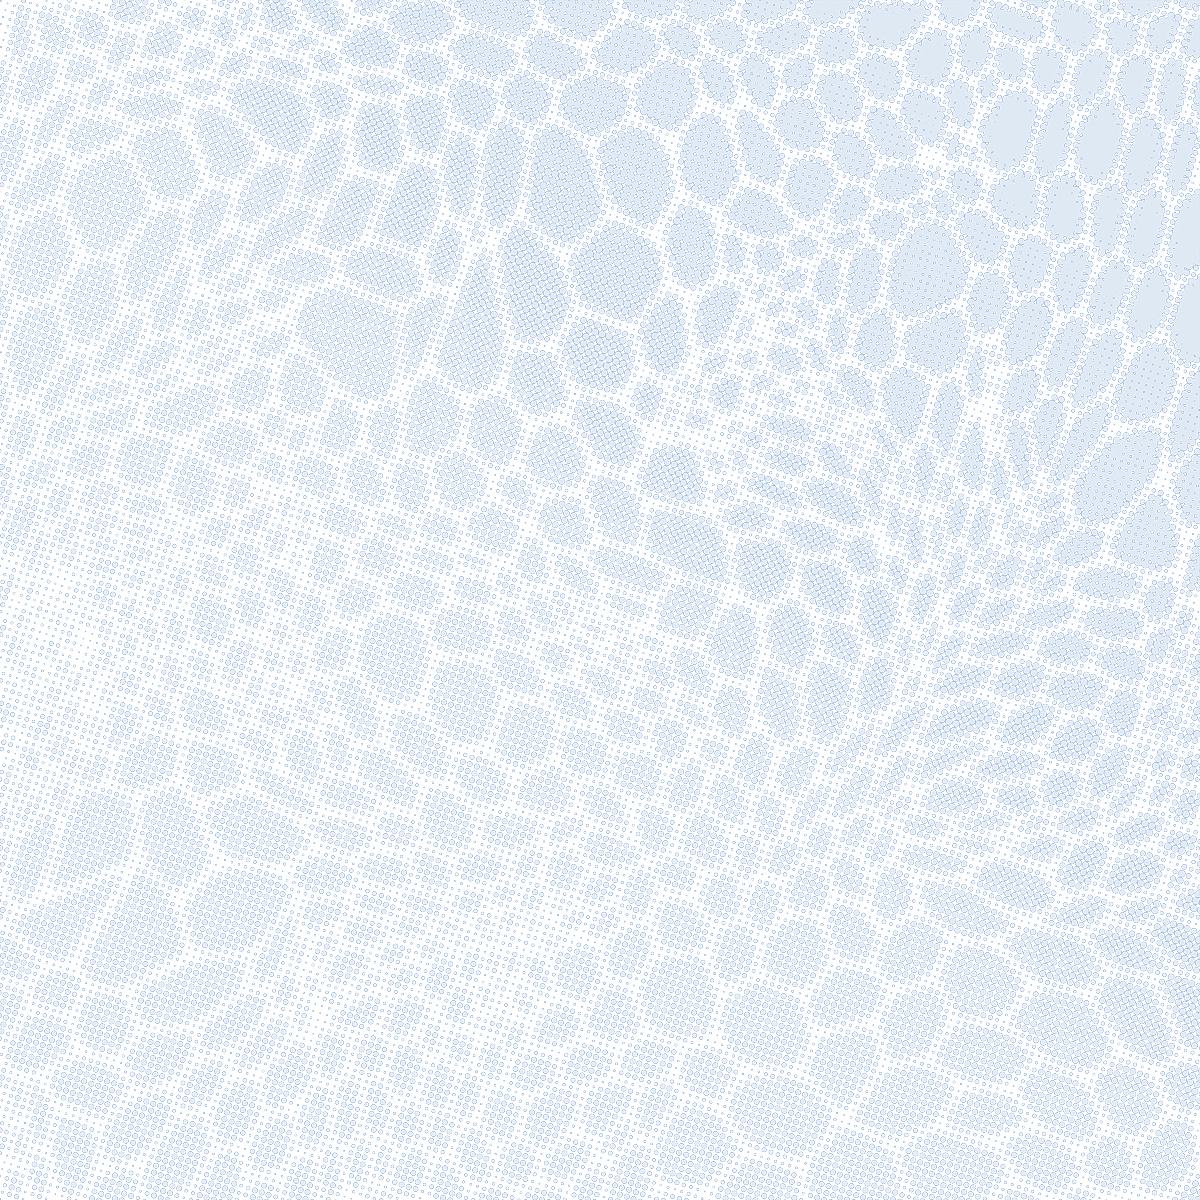
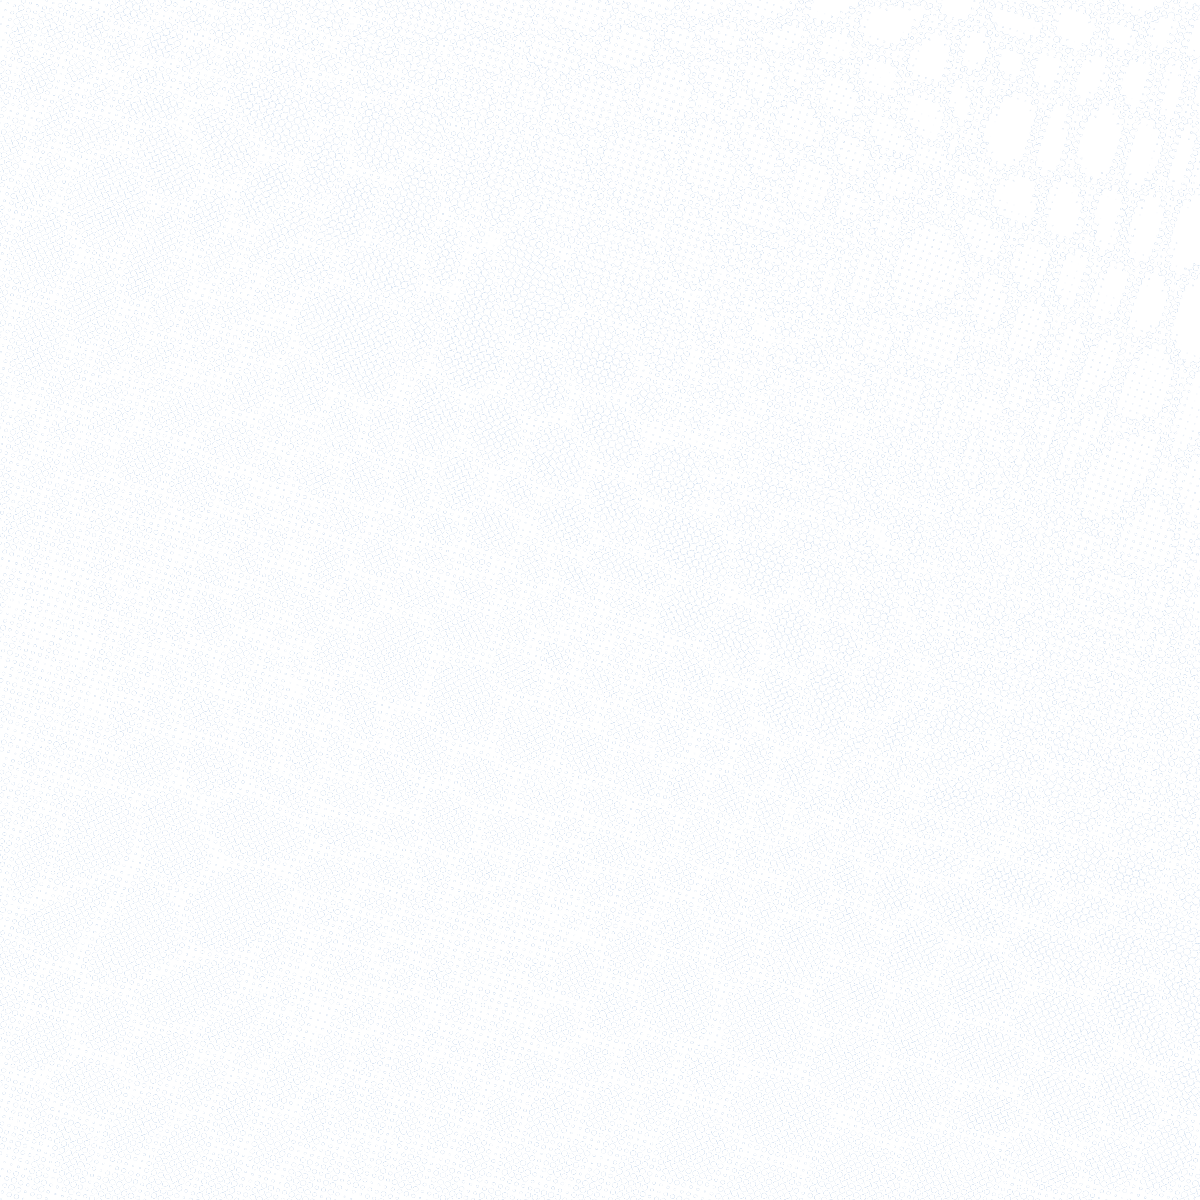
Major

diff --git a/circlescape.js b/circlescape.js
@@ -27,6 +27,8 @@ function preload() {
   sliderIcon = loadImage('assets/slider.png')
 }
 
+
+
 function setup() {
   createCanvas(windowWidth, windowHeight);
   calcDimensions();
@@ -90,7 +92,7 @@ function touchMoved() {
       bgLayer3.line(winMouseX, winMouseY, pwinMouseX, pwinMouseY);
       blendMode(BLEND);
       strokeWeight(100);
-      stroke(255,60);
+      stroke(255,90);
       line(winMouseX, winMouseY, pwinMouseX, pwinMouseY);
 
     } else {
@@ -217,3 +219,72 @@ function draw() {
 //   makeSwatch();
 //   saveNext();
 // }
+
+function windowResized() {
+
+  resizeCanvas(windowWidth, windowHeight);
+  textLayer.resizeCanvas(windowWidth, windowHeight);
+  introLayer.resizeCanvas(windowWidth, windowHeight);
+
+
+
+
+
+
+  if (introState === 3){
+
+
+
+    let fgLayer1New = createGraphics(windowWidth, windowHeight);
+    fgLayer1New.image(fgLayer1,0,0,windowWidth, windowHeight);
+    fgLayer1.resizeCanvas(windowWidth, windowHeight);
+    fgLayer1 = fgLayer1New;
+    let fgLayer2New = createGraphics(windowWidth, windowHeight);
+    fgLayer2New.image(fgLayer2,0,0,windowWidth, windowHeight);
+    fgLayer2.resizeCanvas(windowWidth, windowHeight);
+    fgLayer2 = fgLayer2New;
+    let fgLayer3New = createGraphics(windowWidth, windowHeight);
+    fgLayer3New.image(fgLayer3,0,0,windowWidth, windowHeight);
+    fgLayer3.resizeCanvas(windowWidth, windowHeight);
+    fgLayer3 = fgLayer3New;
+    let bgLayer1New = createGraphics(windowWidth, windowHeight);
+    bgLayer1New.image(bgLayer1,0,0,windowWidth, windowHeight);
+    bgLayer1.resizeCanvas(windowWidth, windowHeight);
+    bgLayer1 = bgLayer1New;
+    let bgLayer2New = createGraphics(windowWidth, windowHeight);
+    bgLayer2New.image(bgLayer2,0,0,windowWidth, windowHeight);
+    bgLayer2.resizeCanvas(windowWidth, windowHeight);
+    bgLayer2 = bgLayer2New;
+    let bgLayer3New = createGraphics(windowWidth, windowHeight);
+    bgLayer3New.image(bgLayer3,0,0,windowWidth, windowHeight);
+    bgLayer3.resizeCanvas(windowWidth, windowHeight);
+    bgLayer3 = bgLayer3New;
+    let subLayer1New = createGraphics(windowWidth, windowHeight);
+    subLayer1New.image(subLayer1,0,0,windowWidth, windowHeight);
+    subLayer1.resizeCanvas(windowWidth, windowHeight);
+    subLayer1 = subLayer1New;
+    let subLayer2New = createGraphics(windowWidth, windowHeight);
+    subLayer2New.image(subLayer2,0,0,windowWidth, windowHeight);
+    subLayer2.resizeCanvas(windowWidth, windowHeight);
+    subLayer2 = subLayer2New;
+    let subLayer3New = createGraphics(windowWidth, windowHeight);
+    subLayer3New.image(subLayer3,0,0,windowWidth, windowHeight);
+    subLayer3.resizeCanvas(windowWidth, windowHeight);
+    subLayer3 = subLayer3New;
+
+
+
+    textLayer.resizeCanvas(windowWidth, windowHeight);
+    sliderImg.resizeCanvas(windowWidth, windowHeight);
+    calcDimensions();
+    removeElements();
+
+    saveNext();
+
+    if (!gridVStextureBool){
+        makeSwatch();
+    }
+  }
+
+
+}

diff --git a/ui.js b/ui.js
@@ -201,9 +201,9 @@ function makeErase() {
   button.mousePressed(makeErase);
   eraseBoolean = 1;
 
-  bgLayer1.stroke(255, 60);
-  bgLayer2.stroke(255, 60);
-  bgLayer3.stroke(255, 60);
+  bgLayer1.stroke(255, 90);
+  bgLayer2.stroke(255, 90);
+  bgLayer3.stroke(255, 90);
   bgLayer1.strokeWeight(100);
   bgLayer2.strokeWeight(100);
   bgLayer3.strokeWeight(100);
